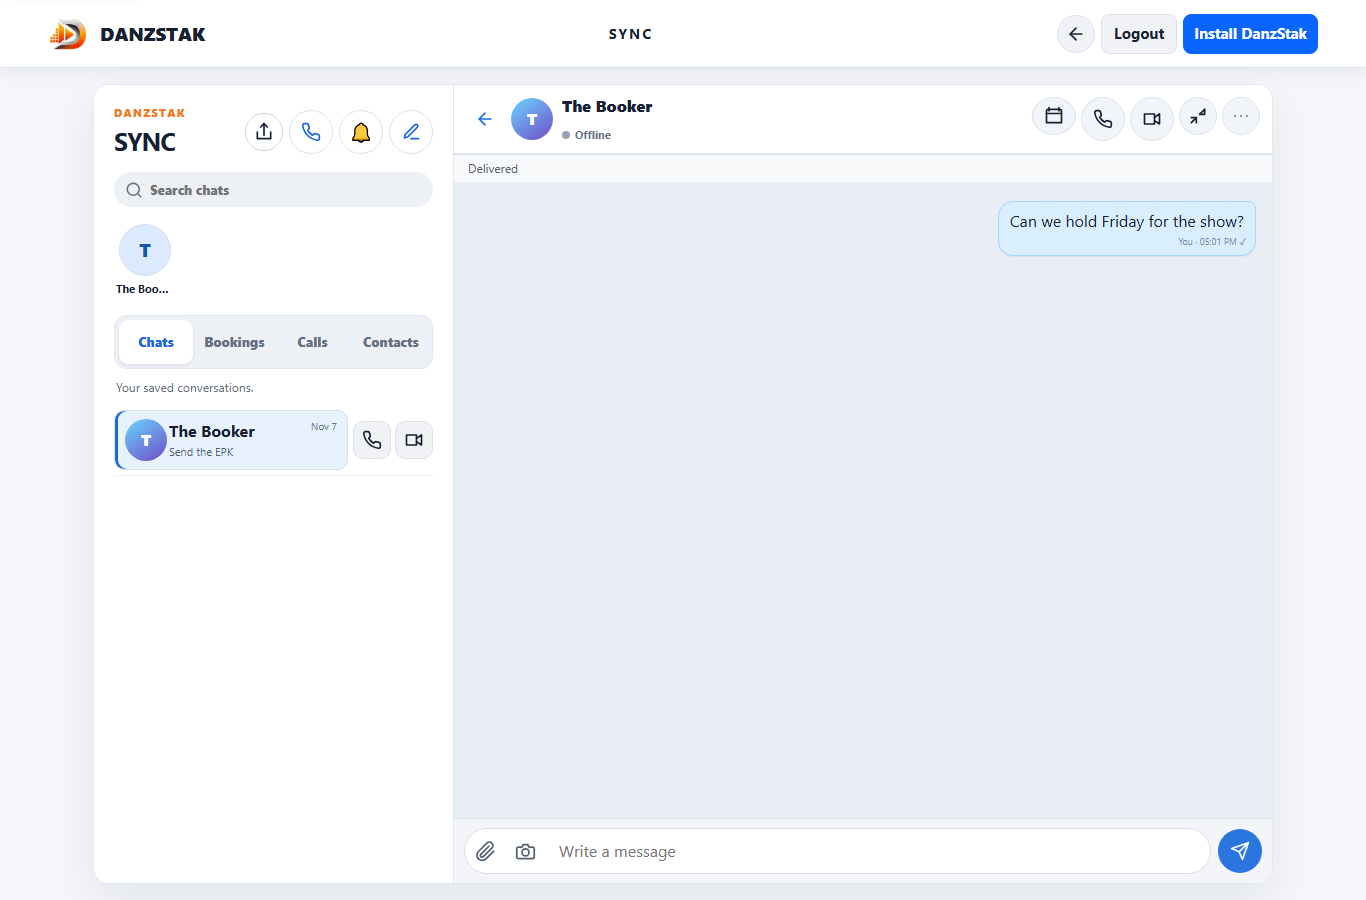
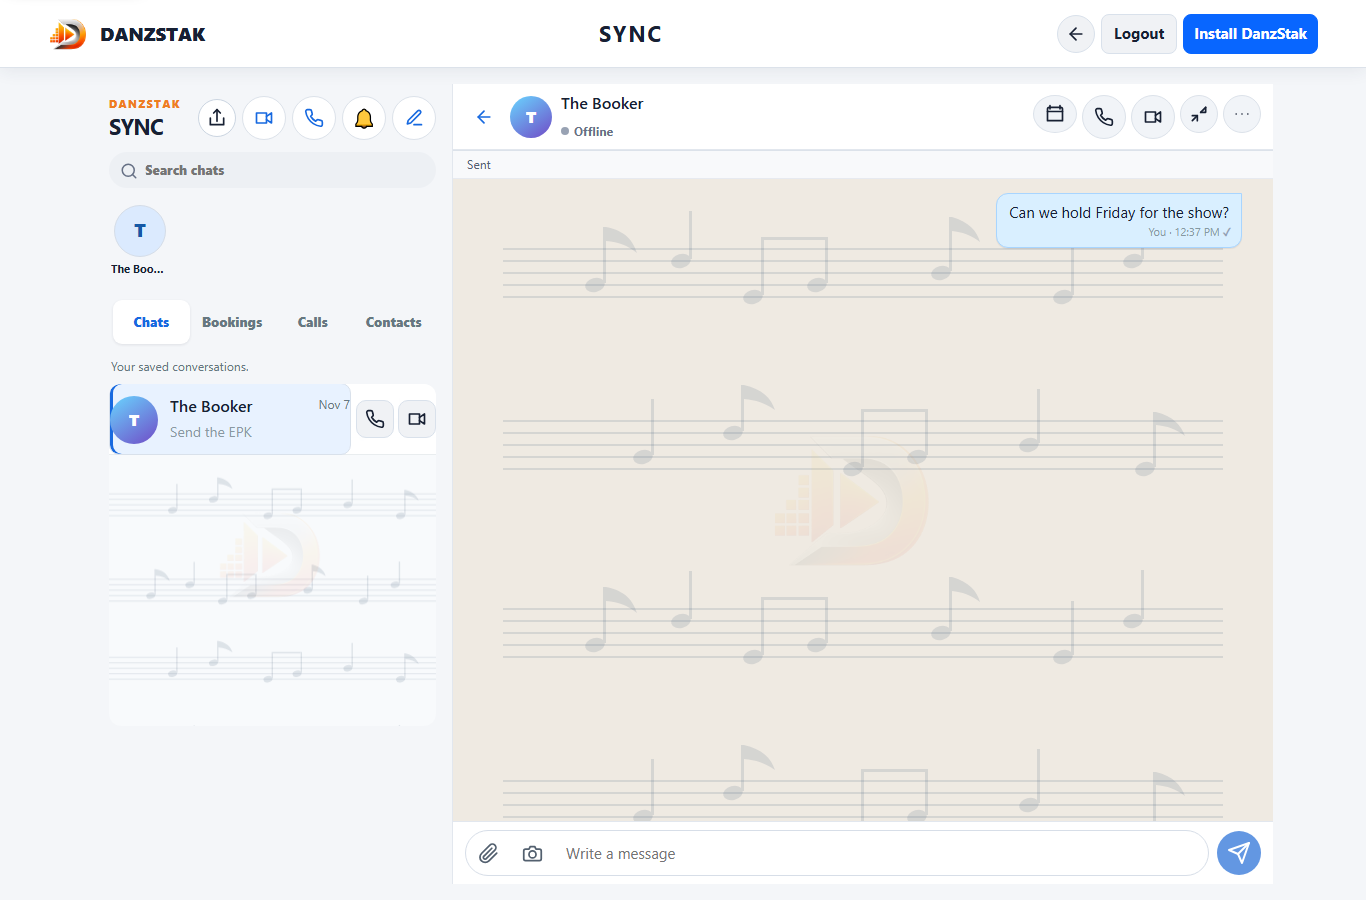
Fix live SYNC message read receipts

diff --git a/assets/i18n.js b/assets/i18n.js
@@ -629,21 +629,21 @@
   id:["Beberapa obrolan atau status online sementara tidak tersedia.","Coba lagi kontak"]
  };
  for(const [language,values] of Object.entries(partialMessageGuidance)){const dictionary=dictionaries[language]||(dictionaries[language]={});partialMessageKeys.forEach((key,index)=>dictionary[key]=values[index]);}
- const messageDeliveryKeys=["Delivered","Read","Sending…","edited","{count} unread message","{count} unread messages","You: {text}. Sending."];
+ const messageDeliveryKeys=["Sent","Read","Sending…","edited","{count} unread message","{count} unread messages","You: {text}. Sending."];
  const messageDeliveryGuidance={
-  es:["Entregado","Leído","Enviando…","editado","{count} mensaje sin leer","{count} mensajes sin leer","Tú: {text}. Enviando."],
-  fr:["Distribué","Lu","Envoi…","modifié","{count} message non lu","{count} messages non lus","Vous : {text}. Envoi."],
-  de:["Zugestellt","Gelesen","Wird gesendet…","bearbeitet","{count} ungelesene Nachricht","{count} ungelesene Nachrichten","Du: {text}. Wird gesendet."],
-  pt:["Entregue","Lida","Enviando…","editada","{count} mensagem não lida","{count} mensagens não lidas","Você: {text}. Enviando."],
-  it:["Consegnato","Letto","Invio…","modificato","{count} messaggio non letto","{count} messaggi non letti","Tu: {text}. Invio."],
-  ko:["전달됨","읽음","보내는 중…","수정됨","읽지 않은 메시지 {count}개","읽지 않은 메시지 {count}개","나: {text}. 보내는 중."],
-  ja:["配信済み","既読","送信中…","編集済み","未読メッセージ{count}件","未読メッセージ{count}件","あなた：{text}。送信中。"],
-  "zh-Hans":["已送达","已读","正在发送…","已编辑","{count}条未读消息","{count}条未读消息","你：{text}。正在发送。"],
-  "zh-Hant":["已送達","已讀","正在傳送…","已編輯","{count}則未讀訊息","{count}則未讀訊息","你：{text}。正在傳送。"],
-  fil:["Naihatid","Nabasa","Ipinapadala…","na-edit","{count} hindi pa nabasang mensahe","{count} hindi pa nabasang mensahe","Ikaw: {text}. Ipinapadala."],
-  hi:["पहुँचा दिया गया","पढ़ा गया","भेजा जा रहा है…","संपादित","{count} अपठित संदेश","{count} अपठित संदेश","आप: {text}। भेजा जा रहा है।"],
-  vi:["Đã gửi đến","Đã đọc","Đang gửi…","đã chỉnh sửa","{count} tin nhắn chưa đọc","{count} tin nhắn chưa đọc","Bạn: {text}. Đang gửi."],
-  th:["ส่งถึงแล้ว","อ่านแล้ว","กำลังส่ง…","แก้ไขแล้ว","ข้อความที่ยังไม่ได้อ่าน {count} ข้อความ","ข้อความที่ยังไม่ได้อ่าน {count} ข้อความ","คุณ: {text} กำลังส่ง"],
+  es:["Enviado","Leído","Enviando…","editado","{count} mensaje sin leer","{count} mensajes sin leer","Tú: {text}. Enviando."],
+  fr:["Envoyé","Lu","Envoi…","modifié","{count} message non lu","{count} messages non lus","Vous : {text}. Envoi."],
+  de:["Gesendet","Gelesen","Wird gesendet…","bearbeitet","{count} ungelesene Nachricht","{count} ungelesene Nachrichten","Du: {text}. Wird gesendet."],
+  pt:["Enviada","Lida","Enviando…","editada","{count} mensagem não lida","{count} mensagens não lidas","Você: {text}. Enviando."],
+  it:["Inviato","Letto","Invio…","modificato","{count} messaggio non letto","{count} messaggi non letti","Tu: {text}. Invio."],
+  ko:["전송됨","읽음","보내는 중…","수정됨","읽지 않은 메시지 {count}개","읽지 않은 메시지 {count}개","나: {text}. 보내는 중."],
+  ja:["送信済み","既読","送信中…","編集済み","未読メッセージ{count}件","未読メッセージ{count}件","あなた：{text}。送信中。"],
+  "zh-Hans":["已发送","已读","正在发送…","已编辑","{count}条未读消息","{count}条未读消息","你：{text}。正在发送。"],
+  "zh-Hant":["已傳送","已讀","正在傳送…","已編輯","{count}則未讀訊息","{count}則未讀訊息","你：{text}。正在傳送。"],
+  fil:["Naipadala","Nabasa","Ipinapadala…","na-edit","{count} hindi pa nabasang mensahe","{count} hindi pa nabasang mensahe","Ikaw: {text}. Ipinapadala."],
+  hi:["भेजा गया","पढ़ा गया","भेजा जा रहा है…","संपादित","{count} अपठित संदेश","{count} अपठित संदेश","आप: {text}। भेजा जा रहा है।"],
+  vi:["Đã gửi","Đã đọc","Đang gửi…","đã chỉnh sửa","{count} tin nhắn chưa đọc","{count} tin nhắn chưa đọc","Bạn: {text}. Đang gửi."],
+  th:["ส่งแล้ว","อ่านแล้ว","กำลังส่ง…","แก้ไขแล้ว","ข้อความที่ยังไม่ได้อ่าน {count} ข้อความ","ข้อความที่ยังไม่ได้อ่าน {count} ข้อความ","คุณ: {text} กำลังส่ง"],
   id:["Terkirim","Dibaca","Mengirim…","diedit","{count} pesan belum dibaca","{count} pesan belum dibaca","Anda: {text}. Mengirim."]
  };
  for(const [language,values] of Object.entries(messageDeliveryGuidance))Object.assign(dictionaries[language]||(dictionaries[language]={}),Object.fromEntries(messageDeliveryKeys.map((key,index)=>[key,values[index]])));

diff --git a/assets/direct-messages.js b/assets/direct-messages.js
@@ -94,6 +94,8 @@ let activeContactName = messageTranslate("Contact");
 let currentEmail = "";
 let loadingMessages = false;
 let conversationVersion = 0;
+let conversationFeedbackVersion = 0;
+let availabilityNoticePending = false;
 const pendingMessageSends = new Set();
 let retryMessageSend = null;
 let nextMessageCursor = "";
@@ -642,6 +644,8 @@ function updateConversationPresence(conversation) {
 
 function openConversation(conversation, { updateHistory = true } = {}) {
   closeConversation();
+  conversationFeedbackVersion += 1;
+  availabilityNoticePending = true;
   activeConversation = { ...conversation };
   document.body.classList.add("is-conversation-open");
   if (document.body?.dataset) {
@@ -825,7 +829,7 @@ function directMessageItem(message) {
     const receipt = document.createElement("span");
     receipt.className = message.read ? "message-receipt is-read" : "message-receipt";
     receipt.textContent = message.read ? "✓✓" : "✓";
-    receipt.setAttribute("aria-label", messageTranslate(message.read ? "Read" : "Delivered"));
+    receipt.setAttribute("aria-label", messageTranslate(message.read ? "Read" : "Sent"));
     meta.append(" ", receipt);
   }
   item.appendChild(meta);
@@ -849,6 +853,15 @@ function directMessageItem(message) {
     item.setAttribute("aria-label", `${messageTranslate("Selected")}. ${item.dataset.baseAriaLabel}`);
   }
   return item;
+}
+
+function updateDirectMessageReceipt(item, message) {
+  const receipt = item?.querySelector?.(".message-receipt");
+  if (!receipt || message.senderEmail !== currentEmail) return;
+  const read = message.read === true;
+  receipt.classList.toggle("is-read", read);
+  receipt.textContent = read ? "✓✓" : "✓";
+  receipt.setAttribute("aria-label", messageTranslate(read ? "Read" : "Sent"));
 }
 
 function firstSafeMessageUrl(content) {
@@ -949,6 +962,9 @@ async function loadEarlierMessages() {
 
 async function loadDirectMessages(reset = false) {
   const version = conversationVersion;
+  const feedbackVersion = conversationFeedbackVersion;
+  const showAvailability = reset && availabilityNoticePending;
+  if (showAvailability) availabilityNoticePending = false;
   if (!document.body.classList.contains("is-conversation-open")) return;
   if (document.hidden && !reset) return;
   const contact = contactInput?.value.trim().toLowerCase();
@@ -969,7 +985,10 @@ async function loadDirectMessages(reset = false) {
     for (const message of data.messages || []) {
       if (shownMessages.has(message.messageId)) {
         const existing = [...messageList.querySelectorAll(".message")].find(item => item.dataset.messageId === message.messageId);
-        if (existing) updateMessageReactionBadge(existing, message);
+        if (existing) {
+          updateMessageReactionBadge(existing, message);
+          updateDirectMessageReceipt(existing, message);
+        }
         continue;
       }
       shownMessages.add(message.messageId);
@@ -986,7 +1005,9 @@ async function loadDirectMessages(reset = false) {
     setConversationActionsEnabled(activeCanContact);
     messageInput.disabled = !activeCanContact;
     sendButton.disabled = !activeCanContact;
-    if (!window.danzstakCallRegistrationRequired?.()) {
+    // Only the first load for this conversation may show availability, and
+    // never after a newer user action has produced more useful feedback.
+    if (showAvailability && feedbackVersion === conversationFeedbackVersion && !window.danzstakCallRegistrationRequired?.()) {
       callStatus.textContent = activeCanContact
         ? messageFormat("You can message {name} directly.", { name: activeContactName })
         : messageTranslate("Saved chat. Become friends or join the same Tribe to send new messages or call.");
@@ -1427,6 +1448,8 @@ messageForm?.addEventListener("submit", async event => {
   const content = messageInput.value.trim();
   const recipientEmail = contactInput.value.trim().toLowerCase();
   if ((!content && !selectedMessageMedia) || !recipientEmail || !activeCanContact || pendingMessageSends.has(conversationVersion)) return;
+  conversationFeedbackVersion += 1;
+  availabilityNoticePending = false;
   const mediaFile = selectedMessageMedia;
   const retry = retryMessageSend
     && retryMessageSend.recipientEmail === recipientEmail
@@ -1475,7 +1498,7 @@ messageForm?.addEventListener("submit", async event => {
     }
     saveChatDraft(recipientEmail, "");
     if (selectedMessageMedia === mediaFile) clearSelectedMessageMedia();
-    callStatus.textContent = messageTranslate("Delivered");
+    callStatus.textContent = messageTranslate("Sent");
     await loadConversations();
   } catch (error) {
     pendingItem.remove();

diff --git a/messages.html b/messages.html
@@ -25,7 +25,7 @@
 <title>SYNC | DanzStak</title>
 <script src="assets/languages.js?v=231" defer></script>
 <script src="assets/brand-language-aliases.js?v=7" defer></script>
-<script src="assets/i18n.js?v=398" defer></script>
+<script src="assets/i18n.js?v=399" defer></script>
 <script src="assets/mobile-keyboard.js?v=232" defer></script>
 <script src="assets/user-content-links.js?v=1" defer></script>
 </head>
@@ -148,7 +148,7 @@
 <script src="assets/invite-sharing.js?v=1" defer></script>
 <script src="assets/identity-media.js?v=2" defer></script>
 <script src="assets/chat.js?v=453" defer></script>
-<script src="assets/direct-messages.js?v=495" defer></script>
+<script src="assets/direct-messages.js?v=496" defer></script>
 <script src="assets/booking-sync.js?v=6" defer></script>
 <script src="assets/make-plans.js?v=3" defer></script>
 <script src="assets/session-activity.js?v=296" defer></script>

diff --git a/service-worker.js b/service-worker.js
@@ -1,6 +1,6 @@
 "use strict";
 
-const CACHE = "danzstak-shell-v784";
+const CACHE = "danzstak-shell-v785";
 const SHELL = [
   "/assets/offline.js", "/assets/identity-media.js", "/assets/user-content-links.js", "/assets/user-content-links.css", "/assets/invite-sharing.js", "/assets/invite-sharing.css",
   "/assets/fonts/archivo.woff2", "/assets/fonts/jetbrains-mono.woff2", "/assets/fonts/anton.woff2", "/assets/fonts/special-elite.woff2", "/assets/fonts/work-sans.woff2", "/assets/fonts/pirata-one.woff2", "/assets/fonts/oswald.woff2", "/assets/fonts/source-serif-4.woff2", "/assets/fonts/syne.woff2", "/assets/fonts/dm-sans.woff2",

diff --git a/profile.html b/profile.html
@@ -41,7 +41,7 @@ h1{margin:0 0 6px;font-size:34px;line-height:var(--ds-leading-tight,1.2);letter-
 <link rel="stylesheet" href="assets/profile-app-header.css?v=1">
 <script src="assets/languages.js?v=231" defer></script>
 <script src="assets/brand-language-aliases.js?v=7" defer></script>
-<script src="assets/i18n.js?v=398" defer></script>
+<script src="assets/i18n.js?v=399" defer></script>
 <script src="assets/mobile-keyboard.js?v=232" defer></script>
 <link rel="stylesheet" href="assets/facebook-import.css?v=341">
 <link rel="stylesheet" href="assets/pivot.css?v=1">

diff --git a/feed.html b/feed.html
@@ -362,7 +362,7 @@ video.post-media { height:auto; max-height:none; object-fit:contain; object-posi
 <link rel="stylesheet" href="assets/artist-hq.css?v=2">
 <script src="assets/languages.js?v=231" defer></script>
 <script src="assets/brand-language-aliases.js?v=8" defer></script>
-<script src="assets/i18n.js?v=398" defer></script>
+<script src="assets/i18n.js?v=399" defer></script>
 <script src="assets/mobile-keyboard.js?v=232" defer></script>
 <script src="assets/identity-media.js?v=2"></script>
 <script src="assets/user-content-links.js?v=1" defer></script>

diff --git a/index.html b/index.html
@@ -62,7 +62,7 @@ footer{text-align:center;color:#999;padding:35px;border-top:1px solid #292936}
 <link rel="stylesheet" href="assets/soft-ui.css?v=427">
 <script src="assets/languages.js?v=231" defer></script>
 <script src="assets/brand-language-aliases.js?v=7" defer></script>
-<script src="assets/i18n.js?v=398" defer></script>
+<script src="assets/i18n.js?v=399" defer></script>
 <script src="assets/mobile-keyboard.js?v=232" defer></script>
 </head>
 <body>
